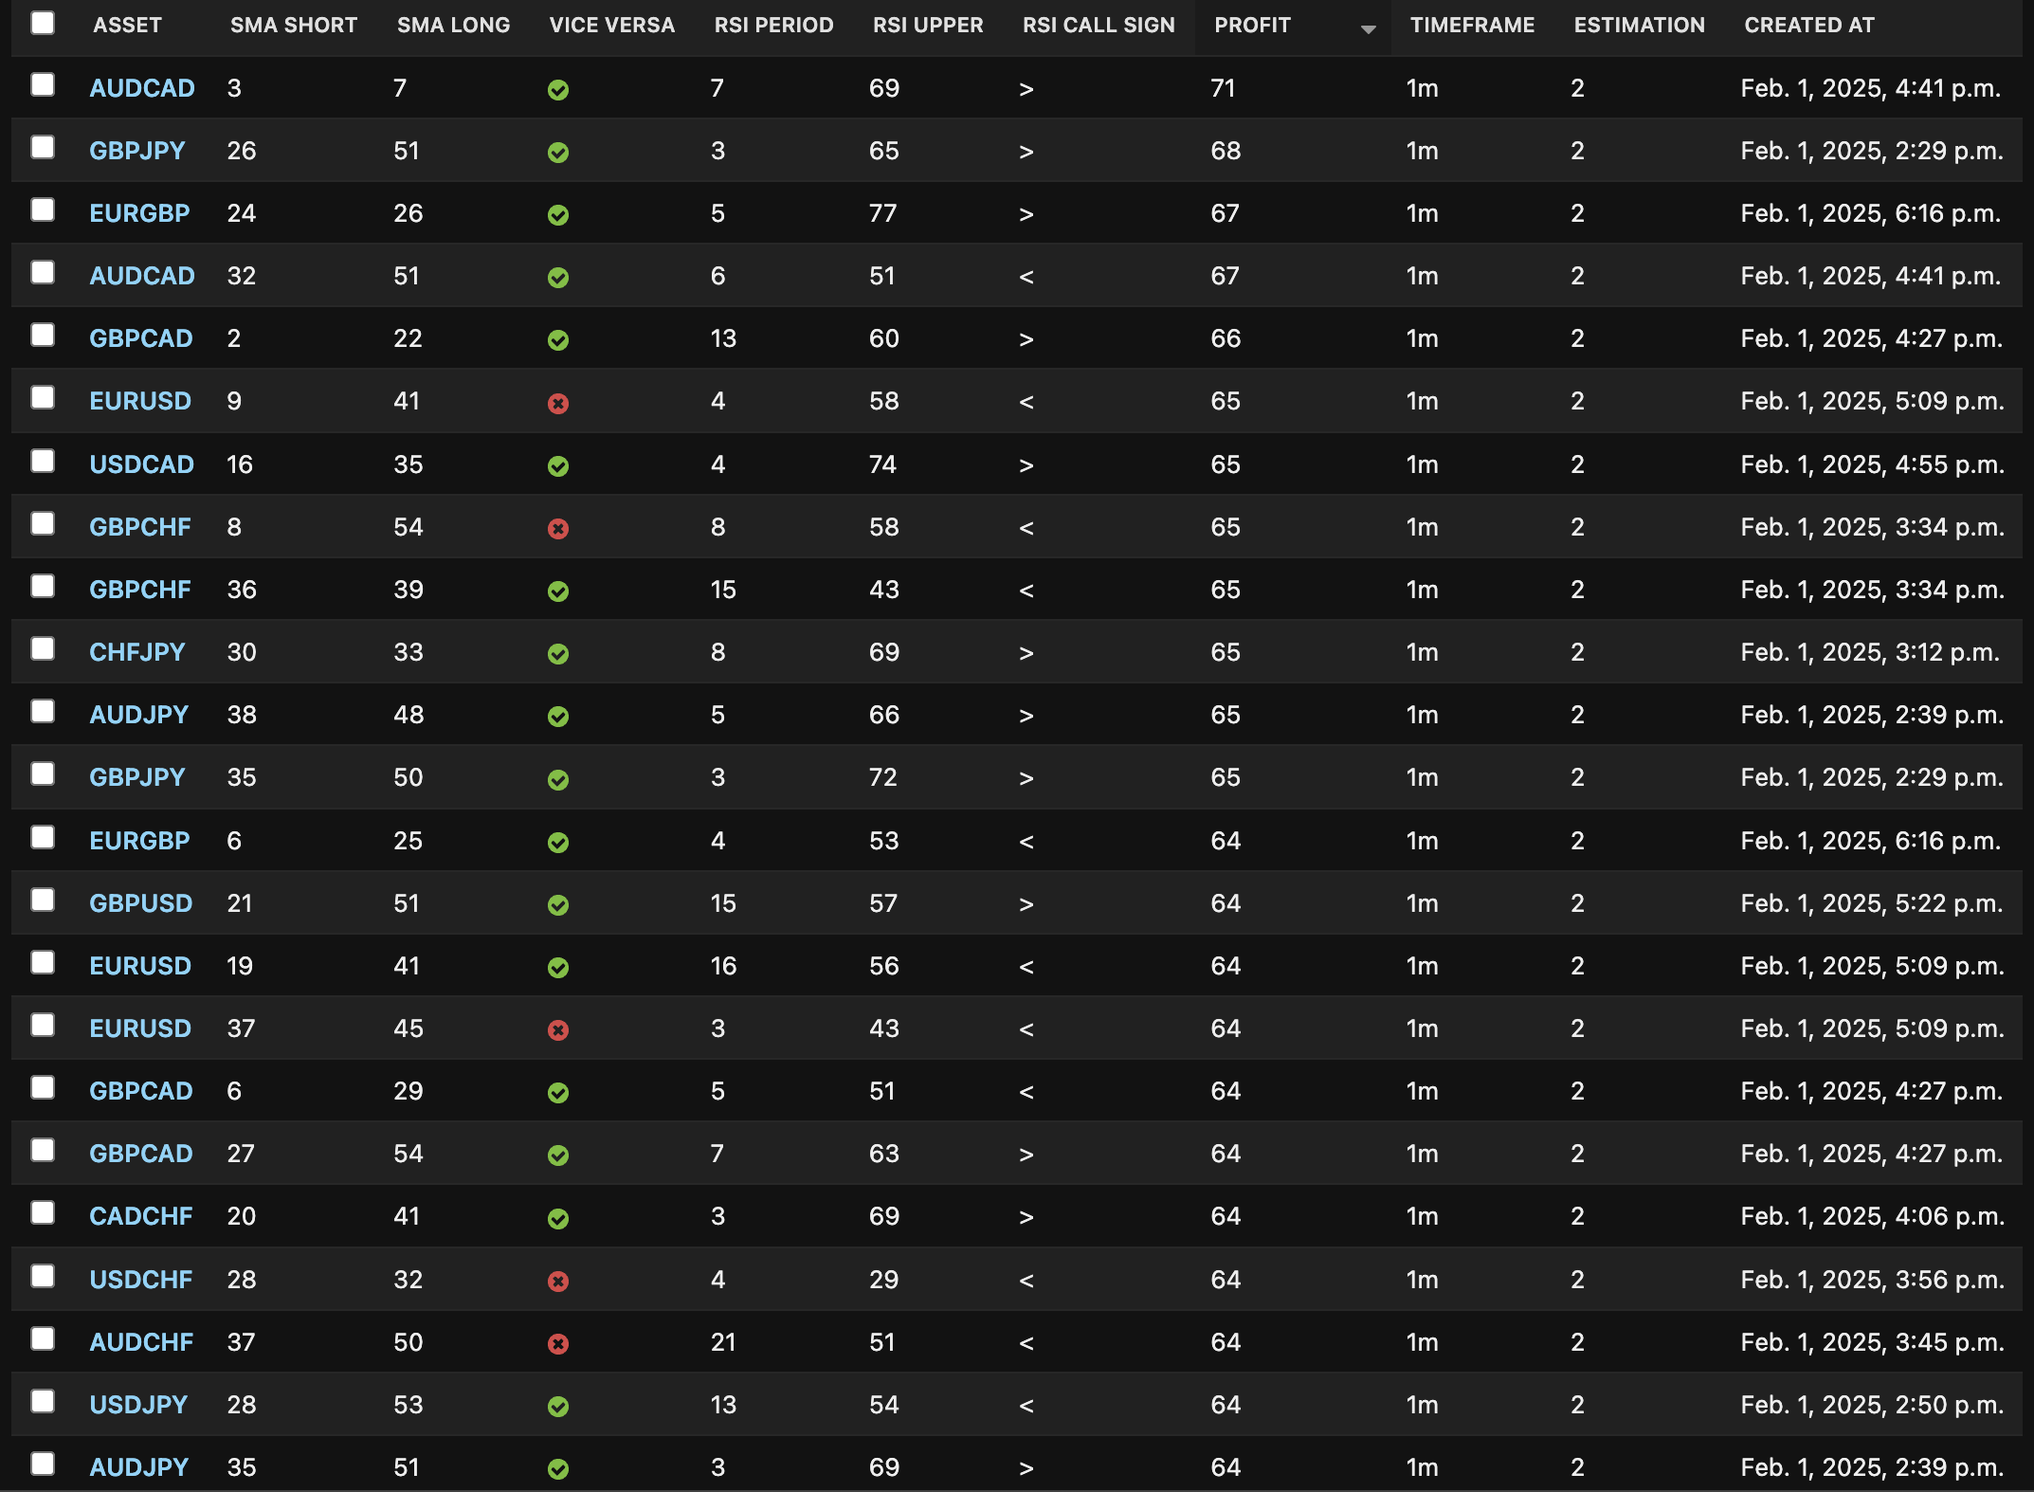
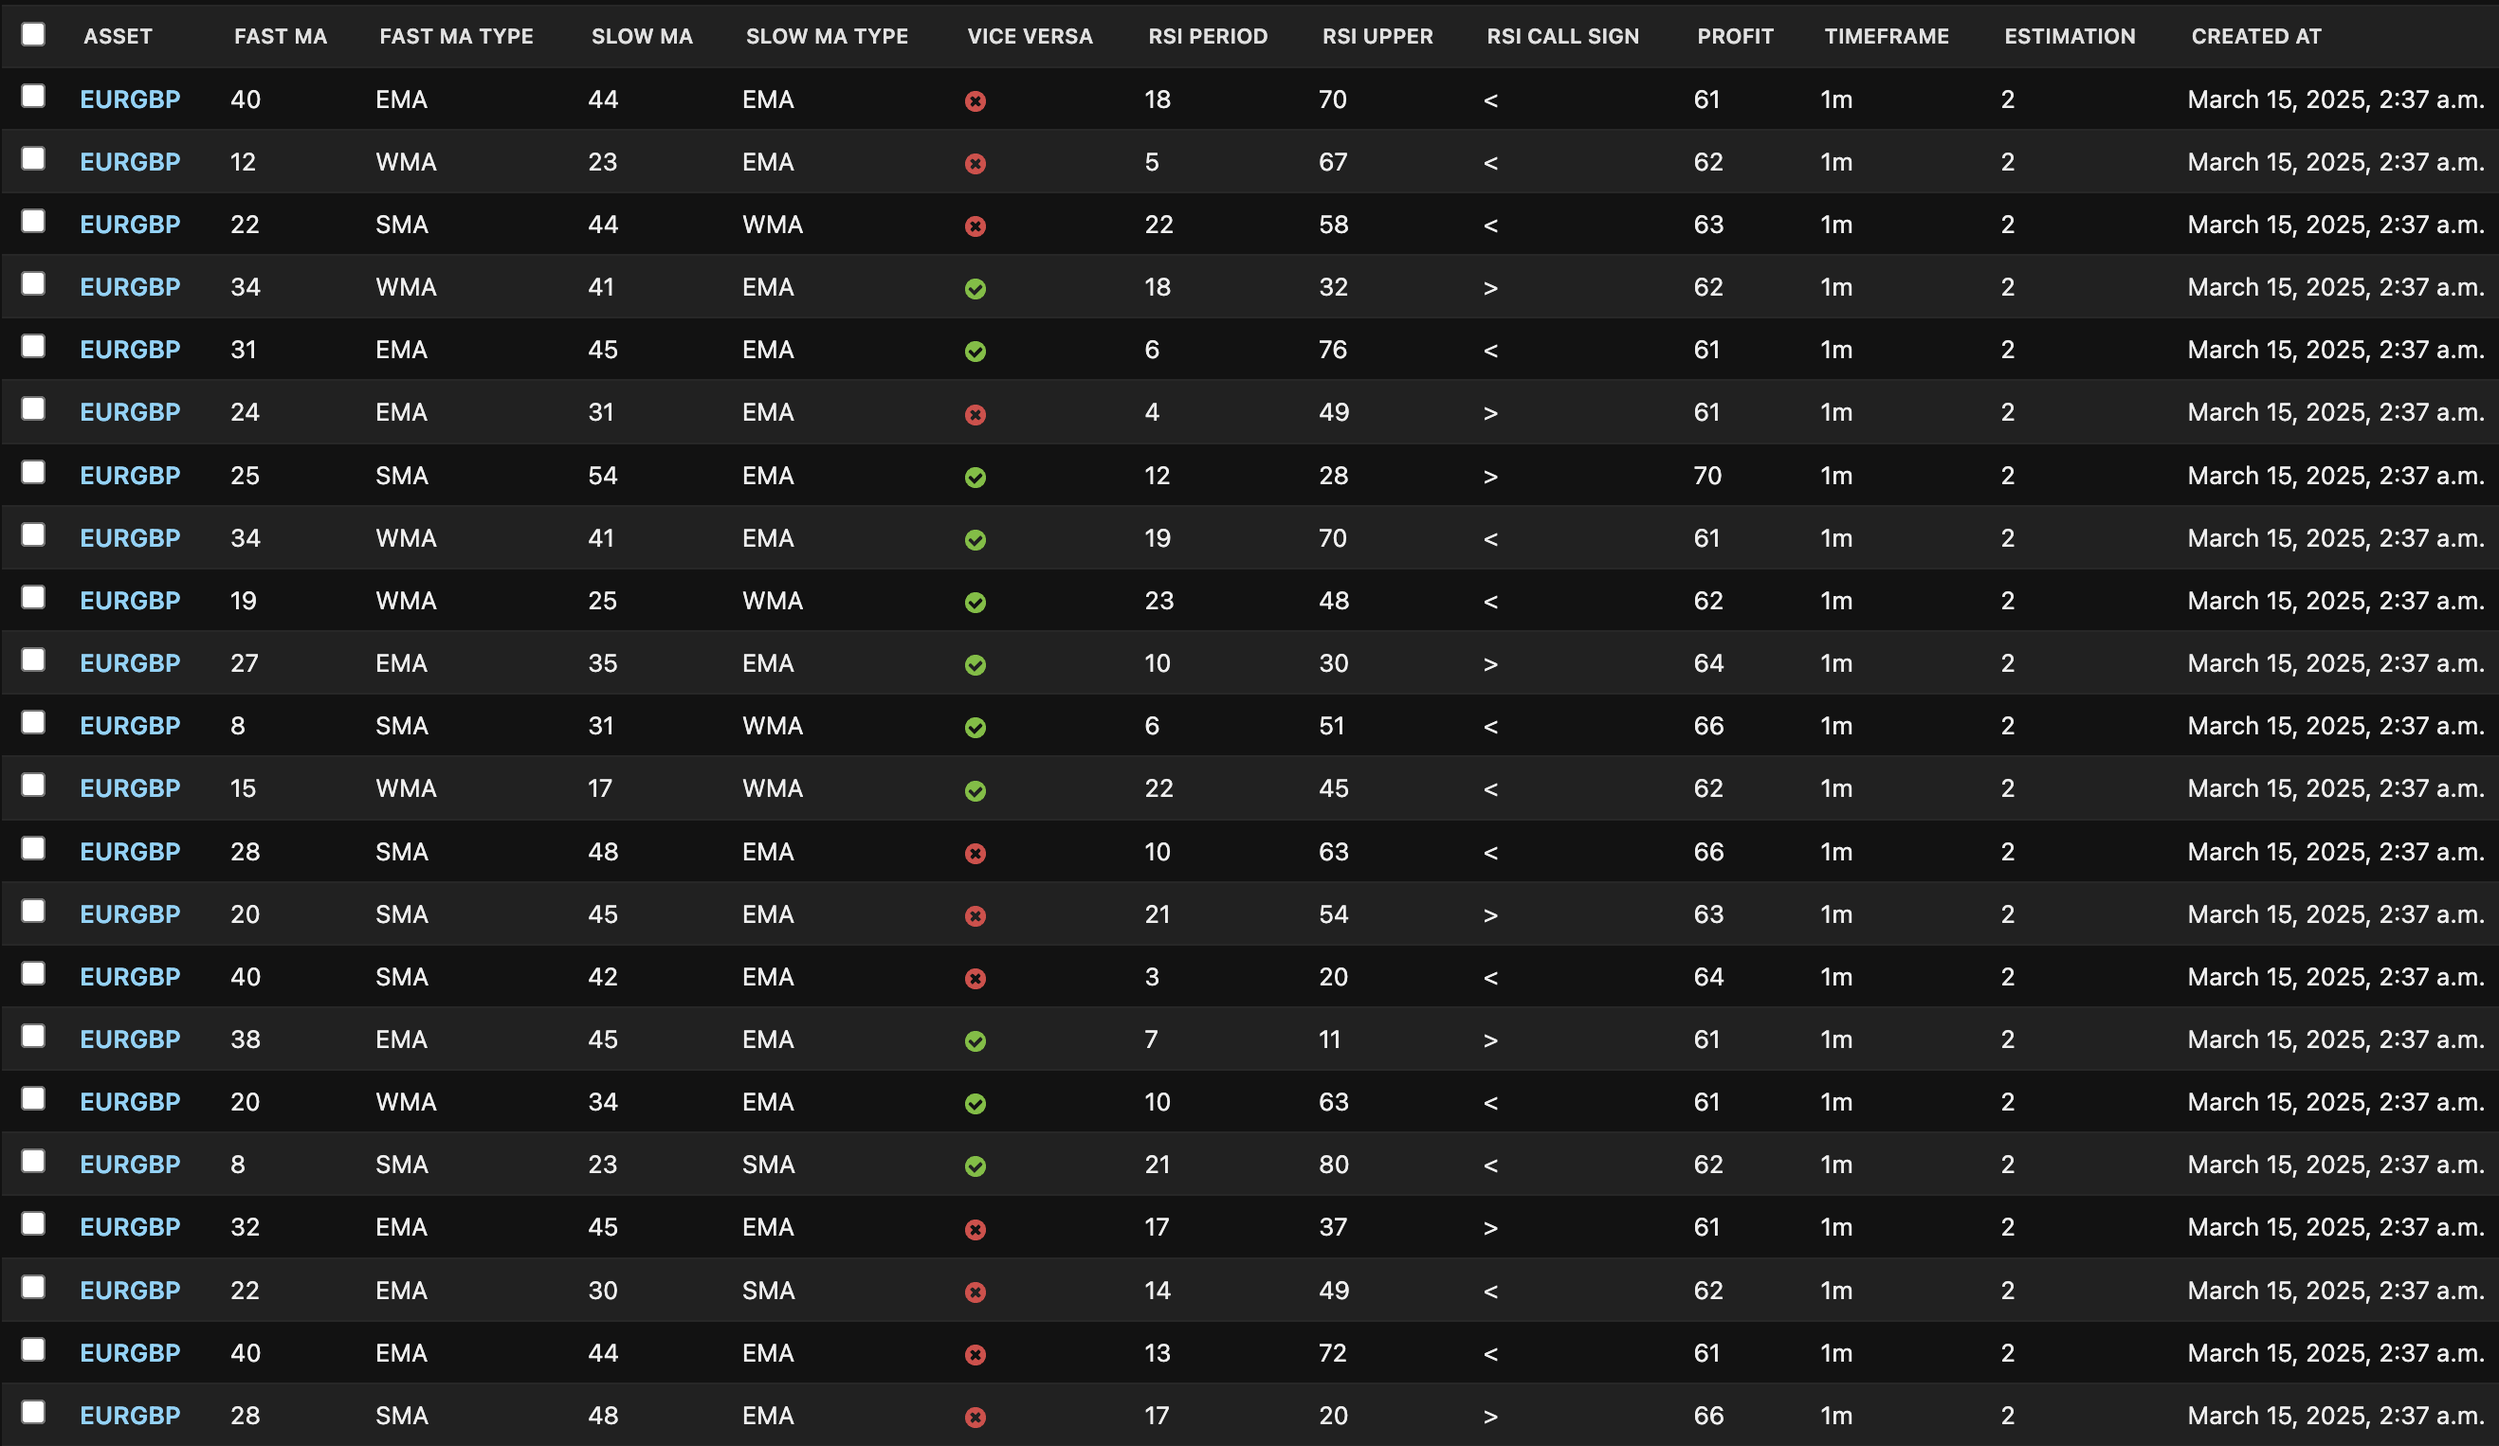
Update README.md

diff --git a/README.md b/README.md
@@ -53,7 +53,7 @@ unwanted signals from previous currencies.
 Only for Mac, Linux, .NET6.0 or newer required: https://dotnet.microsoft.com/en-us/download/dotnet/6.0
 
 ### Pocket Option trading bot with machine learning
-`po_bot_ml.py` - script makes orders based on prediction. Random Forest Classifier approach is used. The prediction is based on the indicators: `awesome_oscillator`, `PSAR`, `CCI` and `MACD` from the last 200 candles. Bot makes an order when the probability is > 0.60. You can set even higher values (0.70, 0.80, 0.90) in the `check_data()` method. !important! You have to set an order time = TIME param. For example, your `po_bot_ml.py/TIME`=5, then set your order time to 5 minutes. The bot make a prediction only for PUT action. And if probability < 30%, then CALL action fires. Works for 1m and higher timeframes. Works for 1m and higher timeframes. 
+`po_bot_ml.py` - script makes orders based on prediction. Random Forest Classifier approach is used. The prediction is based on the indicators: `awesome_oscillator`, `PSAR`, `CCI` and `MACD` from the last 100 candles. Bot makes an order when the probability is > 0.60. You can set even higher values (0.70, 0.80, 0.90) in the `check_data()` method. !important! You have to set an order time = TIME param. For example, your `po_bot_ml.py/TIME`=5, then set your estimation to 5 candles. Another example, your timeframe is 30m, and your estimation is 1h, so set TIME=2. The bot makes a prediction only for PUT action. And if probability < 30%, then CALL action fires. Works for 1m and higher timeframes. 
 Only for Mac, Linux, .NET6.0 or newer required: https://dotnet.microsoft.com/en-us/download/dotnet/6.0
 
 ### Backtest
